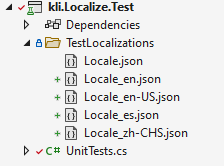
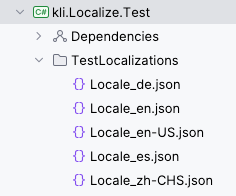
chore(example): update example to v2

diff --git a/CHANGELOG.md b/CHANGELOG.md
@@ -10,7 +10,7 @@ The json files are no longer specified via `AdditionalFiles` but rather via `Loc
     <ItemGroup>
         <PackageReference Include="kli.Localize" Version="2.0.*" />
 
-        <Localize Include="Localizations\Locale_de.json" 
+        <Localize Include="Localizations\Locale_*.json" 
                          NamespaceName="Namespace.Of.Your.Choice"
                          ClassName="MyClassName"
                          NeutralCulture="de" />
@@ -22,6 +22,9 @@ The json files are no longer specified via `AdditionalFiles` but rather via `Loc
 - SGL0004 : Localize element is missing NeutralCulture attribute for files: "\<Localize file that is missing the attribute\>".
 
 **Neutral culture** is no longer assumed but needs to be specified via the `NeutralCulture` attribute.
+This also means from now on, every file needs a culture postfix.
+So the "neutral culture" file has to be postfixed accordingly (`_<your_neutralculture>.json`).
+
 
 ### From version 1.0
 
